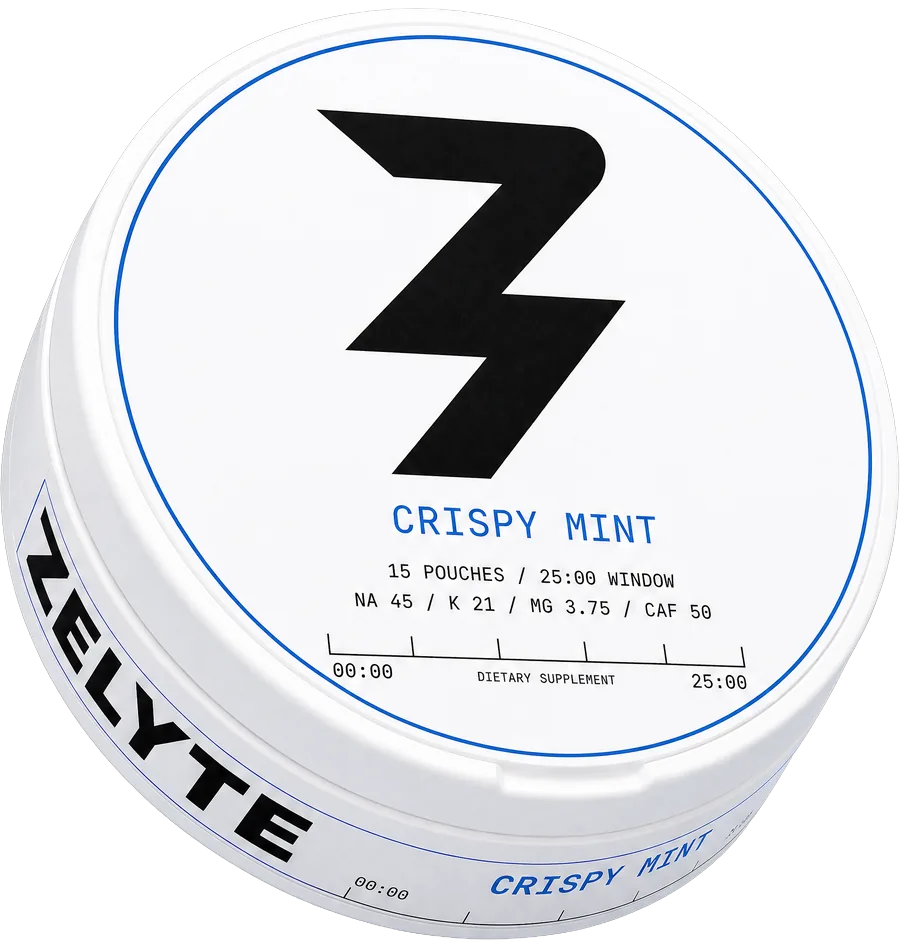
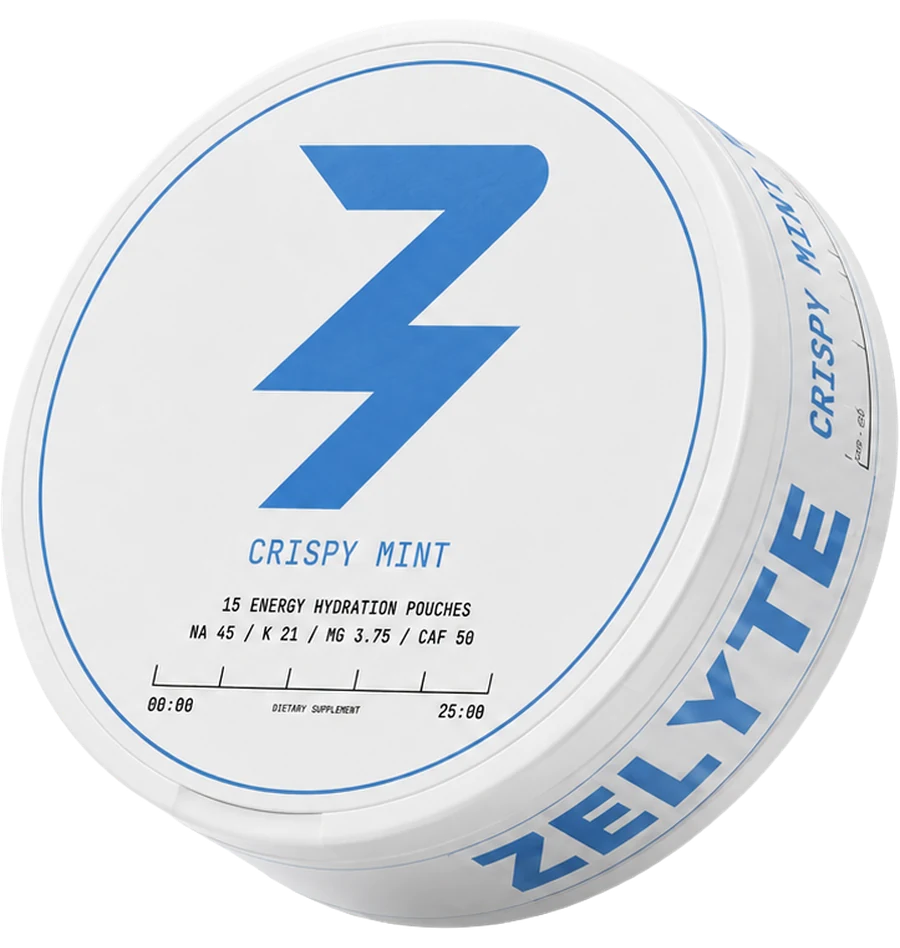
Swap in the new Crispy Mint tin render
Replaces assets/img/tin-mint.webp, so all six Crispy Mint call sites update
together: the index and shop hero orbits, both flavors grids, the PDP hero,
and the cross-sell on black-cherry.html.

Not a file copy. NEW_CRISPY_MINT_TIN.png is framed completely differently
from the tins already here — its visible tin is 723x733 inside a 1448x1086
canvas, so the art fills only 49.9% of the canvas width, where tin-mint and
tin-cherry are both 900x948 with the tin normalised to the full 900px content
width. That invariant is load-bearing: .sku__img img sizes by height with
width:auto precisely because both files are normalised, which is what keeps
the two flavor cards at matching scale. Dropped in raw the new art would have
rendered the hero tin at half size (380 * 0.499 = 190px) and made Crispy Mint
31% smaller than Black Cherry beside it.

So it is cropped to its alpha box and re-exported at the house geometry:
723x733 scaled to 900x912, centred in a 900x948 canvas with 18px of pad top
and bottom. WebP q=88 is 70KB against the 61KB it replaces. Because the
output matches the old file's dimensions and content width exactly, no CSS
and no width/height attributes needed to change anywhere.

Measured after the swap: flavors-grid parity is exact on index and shop at
1440 and 375 (dW=0.00, dH=0.00); .orbit__tin still boxes at 345.6/283.2/246.0
/190.0 across 1440/1180/1025/375; and the headline-to-tin gap is still
[…]

diff --git a/index.html b/index.html
@@ -72,7 +72,7 @@
           <!-- Background layer: the tin, ringed by orbiting pouches. Rings are
                generated in main.js so radius and pouch size are real pixels. -->
           <div class="orbit" id="orbit">
-            <img class="orbit__tin" src="assets/img/tin-mint.webp" width="900" height="948" alt="A ZELYTE tin in Crispy Mint, lid facing up." fetchpriority="high" decoding="async">
+            <img class="orbit__tin" src="assets/img/tin-mint.webp" width="900" height="948" alt="A ZELYTE tin in Crispy Mint, tilted to show the lid and side." fetchpriority="high" decoding="async">
           </div>
 
           <div class="hero__copy">

diff --git a/crispy-mint.html b/crispy-mint.html
@@ -65,7 +65,7 @@
       <div class="wrap">
         <div class="pdp__hero">
           <div class="pdp__stage">
-            <img class="pdp__tin" id="pdp-tin" src="assets/img/tin-mint.webp" width="900" height="948" alt="A ZELYTE tin in Crispy Mint, lid facing up." fetchpriority="high" decoding="async">
+            <img class="pdp__tin" id="pdp-tin" src="assets/img/tin-mint.webp" width="900" height="948" alt="A ZELYTE tin in Crispy Mint, tilted to show the lid and side." fetchpriority="high" decoding="async">
           </div>
           <div class="pdp__copy">
             <p class="pdp__chip reveal">Zero sugar</p>

diff --git a/shop.html b/shop.html
@@ -61,7 +61,7 @@
       <div class="wrap">
         <div class="hero__grid">
           <div class="orbit" id="orbit">
-            <img class="orbit__tin" src="assets/img/tin-mint.webp" width="900" height="948" alt="A ZELYTE tin in Crispy Mint, lid facing up." fetchpriority="high" decoding="async">
+            <img class="orbit__tin" src="assets/img/tin-mint.webp" width="900" height="948" alt="A ZELYTE tin in Crispy Mint, tilted to show the lid and side." fetchpriority="high" decoding="async">
           </div>
 
           <div class="hero__copy">
